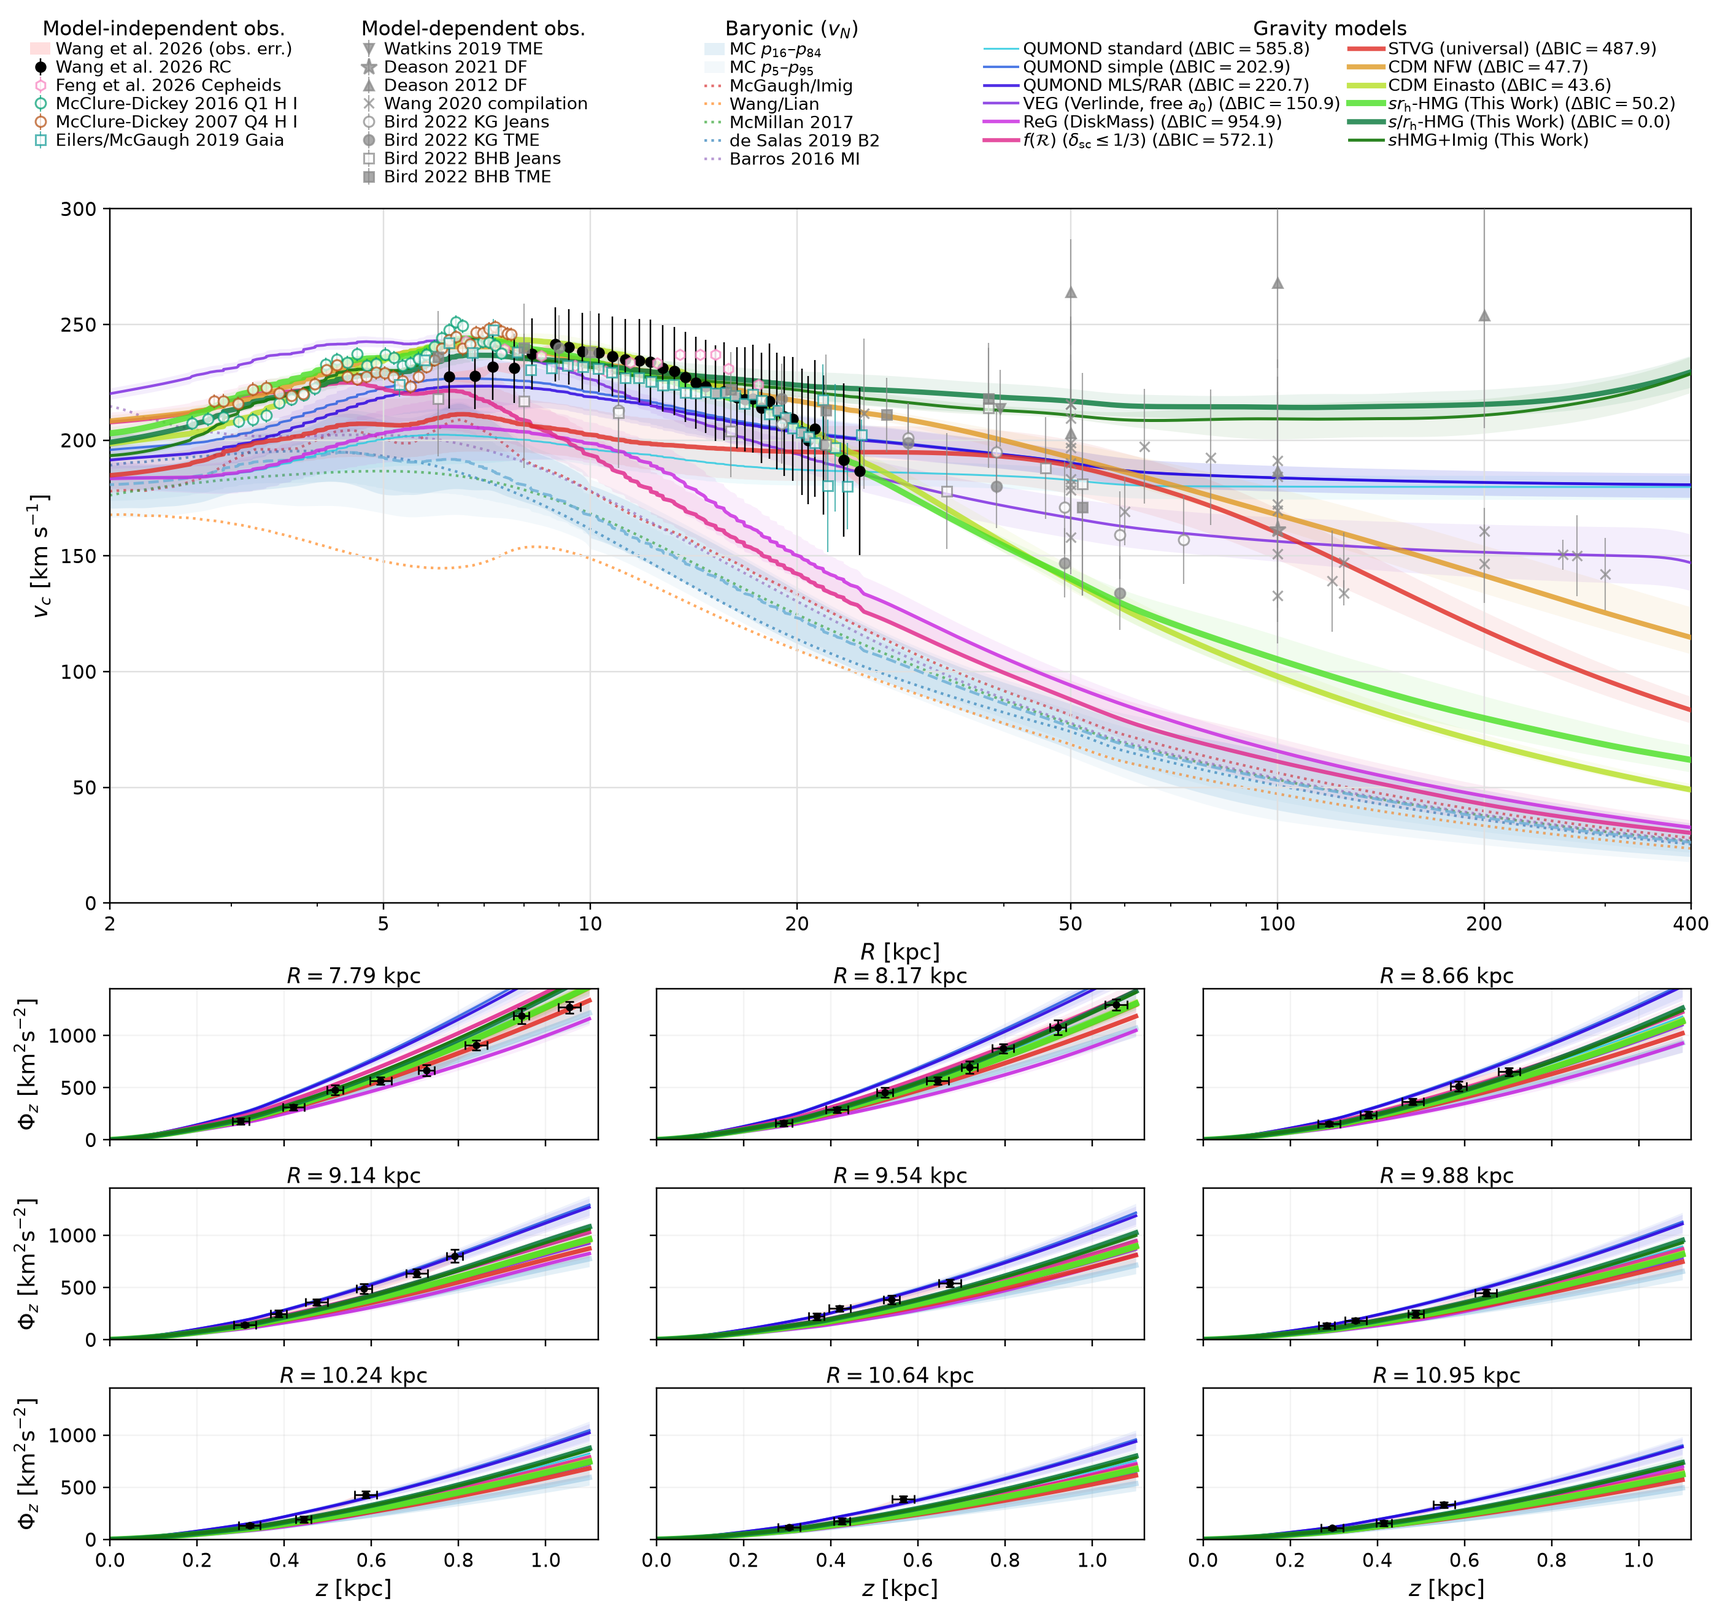
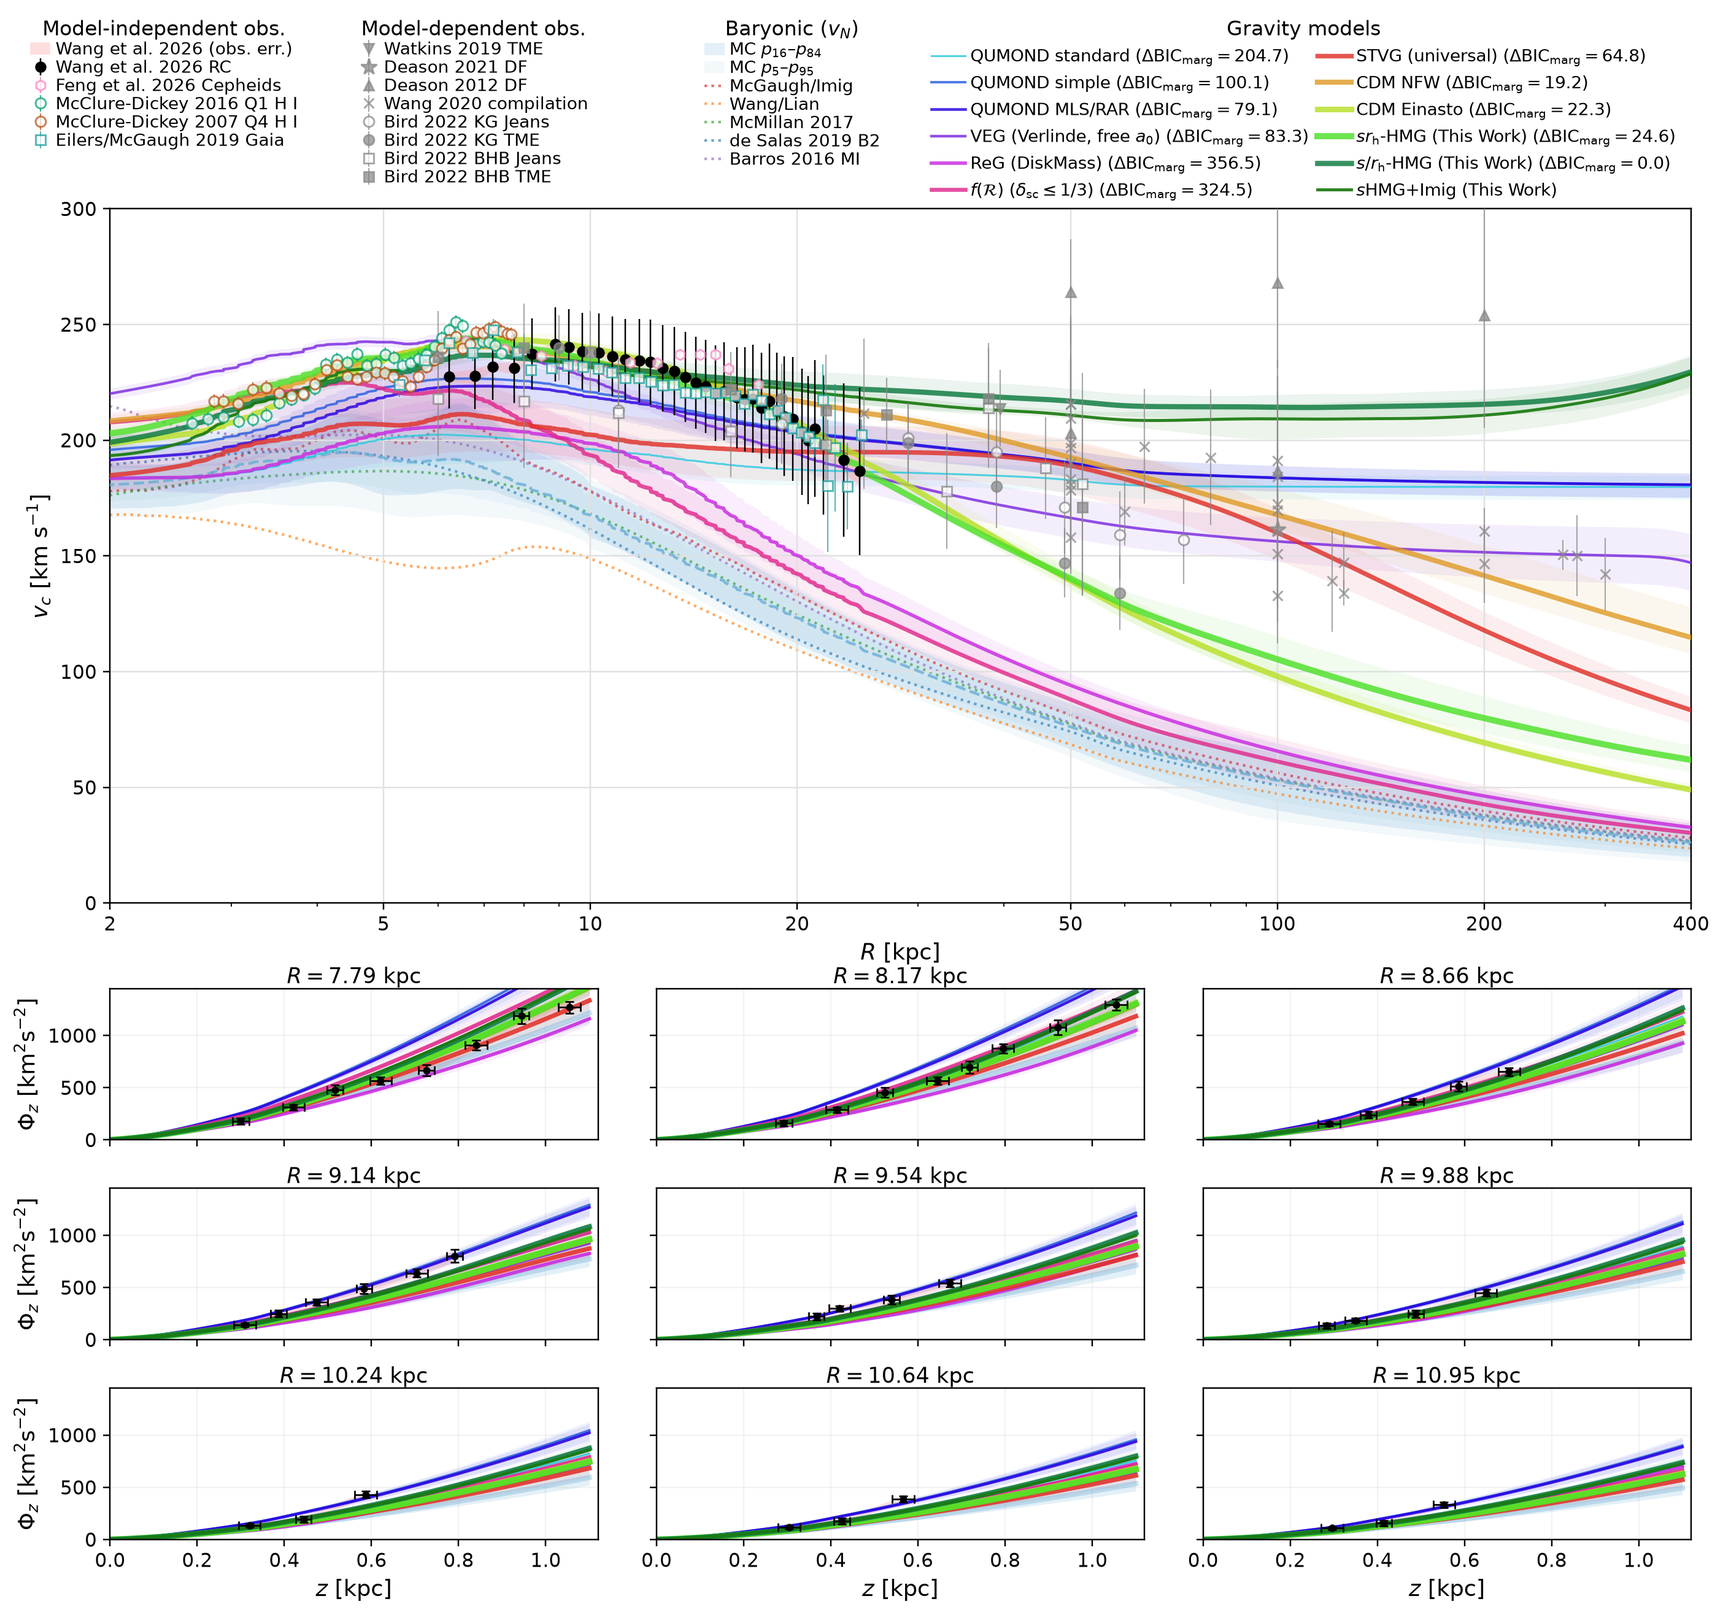
Merge the baryon-marginalised Delta BIC into the MC100 table and use it in the Fig. 2 legend

Changed region(s): [[0.5577, 0.0, 0.9605, 0.1246]]

diff --git a/tables/likelihood_bic_tables.tex b/tables/likelihood_bic_tables.tex
@@ -1,5 +1,6 @@
 % Table A, variant all: chi2_nu & Delta BIC per reconstruction (MI, LW, B2, MM)
 Baryonic Newtonian & 2 & 3.78 & 750 & 18.77 & 3601 & 5.01 & 936 & 7.31 & 1456 \\
+\hline
 QUMOND Simple & 2 & 1.54 & 189 & 5.27 & 1019 & 0.79 & 36.2 & 2.44 & 380 \\
 QUMOND Standard & 2 & 1.13 & 181 & 7.45 & 1501 & 1.10 & 112 & 2.06 & 468 \\
 QUMOND MLS & 2 & 1.55 & 195 & 5.33 & 1051 & 0.76 & 29.8 & 2.44 & 397 \\
@@ -12,38 +13,23 @@ STVG (universal) & 2 & 0.68 & 69.9 & 8.97 & 1702 & 1.12 & 116 & 1.32 & 295 \\
 CDM-NFW & 4 & 0.61 & 15.5 & 1.12 & 39.4 & 1.18 & 126 & 0.63 & 3.3 \\
 CDM-Einasto & 5 & 0.62 & 20.9 & 0.94 & \textbf{0} & 0.87 & 68.3 & 0.62 & 3.3 \\
 $s\text{-}$HMG (This Work) & 3 & 0.58 & 8.7 & 1.48 & 101 & 1.00 & 81.1 & 0.71 & 23.3 \\
-$s/r_\text{h}\text{-}$HMG (This Work) & 4 & 0.53 & \textbf{0} & 1.41 & 143 & 0.73 & 34.5 & 0.73 & 44.7 \\
 $sr_\text{h}\text{-}$HMG (This Work) & 4 & 0.61 & 17.1 & 0.98 & 11.2 & 1.43 & 176 & 0.66 & \textbf{0} \\
+$s/r_\text{h}\text{-}$HMG (This Work) & 4 & 0.53 & \textbf{0} & 1.41 & 143 & 0.73 & 34.5 & 0.73 & 44.7 \\
 % s-HMG best-fit s per reconstruction: mcgaugh_imig: 0.45, lian_wang: 0.84, de_salas: 0.50, mcmillan: 0.57
 
-% Table B, variant all: median Delta BIC (+p84 -p16) and wins per ensemble
-Baryonic Newtonian & 0 & $1181^{+223}_{-179}$ & $1684^{+883}_{-646}$ & $1870^{+871}_{-649}$ & $1865^{+788}_{-600}$ \\
-QUMOND Simple & 0 & $257^{+69.0}_{-59.3}$ & $228^{+112}_{-69.5}$ & $162^{+94.6}_{-67.4}$ & $203^{+91.7}_{-62.3}$ \\
-QUMOND Standard & 0 & $343^{+96.8}_{-57.2}$ & $533^{+483}_{-286}$ & $566^{+454}_{-273}$ & $586^{+414}_{-249}$ \\
-QUMOND MLS & 0 & $234^{+47.3}_{-49.7}$ & $242^{+124}_{-94.9}$ & $180^{+128}_{-91.5}$ & $221^{+108}_{-85.5}$ \\
-VEG ($a_0=cH_0$) & 0 & $738^{+147}_{-155}$ & $466^{+460}_{-289}$ & $439^{+378}_{-218}$ & $398^{+336}_{-202}$ \\
-VEG free $a_0$ & 1 & $111^{+17.1}_{-8.8}$ & $139^{+40.0}_{-46.5}$ & $182^{+47.8}_{-46.1}$ & $151^{+39.4}_{-39.6}$ \\
-$f(\mathcal{R})$ ($\delta_{\rm sc}\le1/3$) & 2 & $351^{+30.2}_{-22.2}$ & $493^{+424}_{-178}$ & $573^{+450}_{-207}$ & $572^{+398}_{-189}$ \\
-ReG (DiskMass) & 0 & $527^{+177}_{-134}$ & $857^{+649}_{-405}$ & $945^{+622}_{-394}$ & $955^{+568}_{-391}$ \\
-STVG (universal) & 0 & $141^{+109}_{-69.0}$ & $388^{+570}_{-296}$ & $488^{+589}_{-329}$ & $488^{+528}_{-317}$ \\
-CDM-NFW & 2 & $26.5^{+14.9}_{-7.9}$ & $44.5^{+24.3}_{-23.6}$ & $67.5^{+35.0}_{-28.9}$ & $47.7^{+32.5}_{-23.6}$ \\
-CDM-Einasto & 3 & $32.1^{+14.1}_{-7.8}$ & $46.2^{+21.2}_{-23.6}$\ (4) & $59.7^{+24.7}_{-25.7}$\ (1) & $43.6^{+24.0}_{-21.4}$\ (3) \\
-$s\text{-}$HMG (This Work) & 1 & $7.8^{+8.4}_{-4.7}$ & $11.0^{+14.5}_{-11.0}$\ (18) & $14.4^{+21.2}_{-14.4}$\ (26) & $10.0^{+13.0}_{-10.0}$\ (22) \\
-$s/r_\text{h}\text{-}$HMG (This Work) & 2 & \textbf{0}\ (100) & $0.0^{+7.2}_{-0.0}$\ (75) & $0.0^{+16.5}_{-0.0}$\ (73) & $0.0^{+10.8}_{-0.0}$\ (73) \\
-$sr_\text{h}\text{-}$HMG (This Work) & 2 & $29.9^{+14.4}_{-7.4}$ & $45.0^{+25.9}_{-25.6}$\ (3) & $72.0^{+30.0}_{-29.8}$ & $50.2^{+24.6}_{-24.0}$\ (2) \\
-
-% Table C, variant all: Delta BIC marginalised over the baryonic draws, per ensemble
-Baryonic Newtonian & 0 & 907 & 837 & 943 & 985 \\
-QUMOND Simple & 0 & 166 & 92.3 & 71.3 & 100 \\
-QUMOND Standard & 0 & 246 & 180 & 178 & 205 \\
-QUMOND MLS & 0 & 165 & 97.6 & 52.3 & 79.1 \\
-VEG ($a_0=cH_0$) & 0 & 533 & 65.8 & 95.8 & 79.2 \\
-VEG free $a_0$ & 1 & 96.6 & 68.5 & 101 & 83.3 \\
-$f(\mathcal{R})$ ($\delta_{\rm sc}\le1/3$) & 2 & 324 & 280 & 307 & 325 \\
-ReG (DiskMass) & 0 & 321 & 300 & 344 & 357 \\
-STVG (universal) & 0 & 49.2 & 32.4 & 53.3 & 64.8 \\
-CDM-NFW & 2 & 18.3 & 21.0 & 27.8 & 19.2 \\
-CDM-Einasto & 3 & 23.9 & 25.8 & 30.5 & 22.3 \\
-$s\text{-}$HMG (This Work) & 1 & 3.6 & 5.7 & 11.4 & 6.7 \\
-$s/r_\text{h}\text{-}$HMG (This Work) & 2 & \textbf{0} & \textbf{0} & \textbf{0} & \textbf{0} \\
-$sr_\text{h}\text{-}$HMG (This Work) & 2 & 20.7 & 18.7 & 36.8 & 24.6 \\
+% Table B, variant all: median Delta BIC (+p84 -p16) and wins per ensemble, then Delta BIC marginalised over the draws, per ensemble
+Baryonic Newtonian & 0 & $1181^{+223}_{-179}$ & $1684^{+883}_{-646}$ & $1870^{+871}_{-649}$ & $1865^{+788}_{-600}$ & 907 & 837 & 943 & 985 \\
+\hline
+QUMOND Simple & 0 & $257^{+69.0}_{-59.3}$ & $228^{+112}_{-69.5}$ & $162^{+94.6}_{-67.4}$ & $203^{+91.7}_{-62.3}$ & 166 & 92.3 & 71.3 & 100 \\
+QUMOND Standard & 0 & $343^{+96.8}_{-57.2}$ & $533^{+483}_{-286}$ & $566^{+454}_{-273}$ & $586^{+414}_{-249}$ & 246 & 180 & 178 & 205 \\
+QUMOND MLS & 0 & $234^{+47.3}_{-49.7}$ & $242^{+124}_{-94.9}$ & $180^{+128}_{-91.5}$ & $221^{+108}_{-85.5}$ & 165 & 97.6 & 52.3 & 79.1 \\
+VEG ($a_0=cH_0$) & 0 & $738^{+147}_{-155}$ & $466^{+460}_{-289}$ & $439^{+378}_{-218}$ & $398^{+336}_{-202}$ & 533 & 65.8 & 95.8 & 79.2 \\
+VEG free $a_0$ & 1 & $111^{+17.1}_{-8.8}$ & $139^{+40.0}_{-46.5}$ & $182^{+47.8}_{-46.1}$ & $151^{+39.4}_{-39.6}$ & 96.6 & 68.5 & 101 & 83.3 \\
+$f(\mathcal{R})$ ($\delta_{\rm sc}\le1/3$) & 2 & $351^{+30.2}_{-22.2}$ & $493^{+424}_{-178}$ & $573^{+450}_{-207}$ & $572^{+398}_{-189}$ & 324 & 280 & 307 & 325 \\
+ReG (DiskMass) & 0 & $527^{+177}_{-134}$ & $857^{+649}_{-405}$ & $945^{+622}_{-394}$ & $955^{+568}_{-391}$ & 321 & 300 & 344 & 357 \\
+STVG (universal) & 0 & $141^{+109}_{-69.0}$ & $388^{+570}_{-296}$ & $488^{+589}_{-329}$ & $488^{+528}_{-317}$ & 49.2 & 32.4 & 53.3 & 64.8 \\
+CDM-NFW & 2 & $26.5^{+14.9}_{-7.9}$ & $44.5^{+24.3}_{-23.6}$ & $67.5^{+35.0}_{-28.9}$ & $47.7^{+32.5}_{-23.6}$ & 18.3 & 21.0 & 27.8 & 19.2 \\
+CDM-Einasto & 3 & $32.1^{+14.1}_{-7.8}$ & $46.2^{+21.2}_{-23.6}$\ (4) & $59.7^{+24.7}_{-25.7}$\ (1) & $43.6^{+24.0}_{-21.4}$\ (3) & 23.9 & 25.8 & 30.5 & 22.3 \\
+$s\text{-}$HMG (This Work) & 1 & $7.8^{+8.4}_{-4.7}$ & $11.0^{+14.5}_{-11.0}$\ (18) & $14.4^{+21.2}_{-14.4}$\ (26) & $10.0^{+13.0}_{-10.0}$\ (22) & 3.6 & 5.7 & 11.4 & 6.7 \\
+$sr_\text{h}\text{-}$HMG (This Work) & 2 & $29.9^{+14.4}_{-7.4}$ & $45.0^{+25.9}_{-25.6}$\ (3) & $72.0^{+30.0}_{-29.8}$ & $50.2^{+24.6}_{-24.0}$\ (2) & 20.7 & 18.7 & 36.8 & 24.6 \\
+$s/r_\text{h}\text{-}$HMG (This Work) & 2 & \textbf{0}\ (100) & $0.0^{+7.2}_{-0.0}$\ (75) & $0.0^{+16.5}_{-0.0}$\ (73) & $0.0^{+10.8}_{-0.0}$\ (73) & \textbf{0} & \textbf{0} & \textbf{0} & \textbf{0} \\

diff --git a/scripts/likelihood_bic_tables.py b/scripts/likelihood_bic_tables.py
@@ -4,9 +4,9 @@ Table A: one fit per baryonic reconstruction (outputs/likelihood_bic/likelihood_
          chi2_nu and Delta BIC with respect to the best model of each reconstruction.
 Table B: MC100 ensembles (outputs/likelihood_bic_mc100/<variant>/bc_nbar<n>/bic_per_draw.csv);
          median Delta BIC with respect to the best model of each draw (p16, p84) and
-         the number of draws in which the model has the lowest BIC.
-Table C: MC100 ensembles; Delta BIC marginalised over the baryonic draws,
-         -2 ln[(1/N) sum_i exp(-BIC_i/2)] relative to the best model.
+         the number of draws in which the model has the lowest BIC; then, per
+         ensemble, Delta BIC with the BIC marginalised over the baryonic draws,
+         -2 ln[(1/N) sum_i exp(-BIC_i/2)], relative to the best model.
 
 Usage
 -----
@@ -31,8 +31,8 @@ ROWS_A = [
     ("fr_bounded", r"$f(\mathcal{R})$ ($\delta_{\rm sc}\le1/3$)"),
     ("reg_dms", "ReG (DiskMass)"), ("reg_free", "ReG free"), ("stvg_std", "STVG (universal)"),
     ("cdm_nfw", "CDM-NFW"), ("cdm_einasto", "CDM-Einasto"),
-    ("hmg_sp", r"$s\text{-}$HMG (This Work)"), ("hmg_sk2", r"$s/r_\text{h}\text{-}$HMG (This Work)"),
-    ("e2d_k2", r"$sr_\text{h}\text{-}$HMG (This Work)"),
+    ("hmg_sp", r"$s\text{-}$HMG (This Work)"), ("e2d_k2", r"$sr_\text{h}\text{-}$HMG (This Work)"),
+    ("hmg_sk2", r"$s/r_\text{h}\text{-}$HMG (This Work)"),
 ]
 ROWS_B = [
     ("baryonic", "Baryonic Newtonian", 0), ("mond_simple", "QUMOND Simple", 0),
@@ -41,8 +41,8 @@ ROWS_B = [
     ("fr_bounded", r"$f(\mathcal{R})$ ($\delta_{\rm sc}\le1/3$)", 2),
     ("reg_dms", "ReG (DiskMass)", 0), ("stvg_std", "STVG (universal)", 0),
     ("cdm_nfw", "CDM-NFW", 2), ("cdm_einasto", "CDM-Einasto", 3),
-    ("hmg_k1", r"$s\text{-}$HMG (This Work)", 1), ("hmg_sk2", r"$s/r_\text{h}\text{-}$HMG (This Work)", 2),
-    ("e2d_k2", r"$sr_\text{h}\text{-}$HMG (This Work)", 2),
+    ("hmg_k1", r"$s\text{-}$HMG (This Work)", 1), ("e2d_k2", r"$sr_\text{h}\text{-}$HMG (This Work)", 2),
+    ("hmg_sk2", r"$s/r_\text{h}\text{-}$HMG (This Work)", 2),
 ]
 
 
@@ -65,13 +65,16 @@ def table_a(variant: str) -> None:
             dbic = r"\textbf{0}" if d == 0 else fmt(d)
             cells.append(f"{float(hit['chi2_nu']):.2f} & {dbic}")
         print(f"{label} & {k} & " + " & ".join(cells) + r" \\")
+        if key == "baryonic":
+            print(r"\hline")
     hmg = {c: next(r for r in rows if r["config"] == c and r["model"] == "hmg_sp") for c in CONFIGS}
     print("% s-HMG best-fit s per reconstruction: "
           + ", ".join(f"{c}: {math.exp(json.loads(hmg[c]['theta'])[0]):.2f}" for c in CONFIGS))
 
 
 def table_b(variant: str) -> None:
-    print(f"% Table B, variant {variant}: median Delta BIC (+p84 -p16) and wins per ensemble")
+    print(f"% Table B, variant {variant}: median Delta BIC (+p84 -p16) and wins per ensemble, "
+          "then Delta BIC marginalised over the draws, per ensemble")
     data = []
     for n in (1, 2, 3, 4):
         path = ROOT / f"outputs/likelihood_bic_mc100/{variant}/bc_nbar{n}/bic_per_draw.csv"
@@ -79,35 +82,21 @@ def table_b(variant: str) -> None:
         keys = [k for k, _, _ in ROWS_B if k in rows[0]]
         bic = {k: np.array([float(r[k]) for r in rows]) for k in keys}
         stack = np.vstack([bic[k] for k in keys])
-        data.append((keys, bic, stack.min(axis=0), np.argmin(stack, axis=0)))
+        marg = {k: float(b.min() - 2.0 * math.log(np.mean(np.exp(-0.5 * (b - b.min()))))) for k, b in bic.items()}
+        best = min(marg.values())
+        data.append((keys, bic, stack.min(axis=0), np.argmin(stack, axis=0), {k: v - best for k, v in marg.items()}))
     for key, label, k in ROWS_B:
-        cells = []
-        for keys, bic, low, arg in data:
+        cells, cells_m = [], []
+        for keys, bic, low, arg, marg in data:
             d = bic[key] - low
             p16, p50, p84 = np.percentile(d, [16, 50, 84])
             wins = int(np.sum(arg == keys.index(key)))
             cell = r"\textbf{0}" if p84 == 0 else f"${fmt(p50)}^{{+{fmt(p84 - p50)}}}_{{-{fmt(p50 - p16)}}}$"
             cells.append(cell + (rf"\ ({wins})" if wins else ""))
-        print(f"{label} & {k} & " + " & ".join(cells) + r" \\")
-
-
-def table_c(variant: str) -> None:
-    """Delta BIC marginalised over the 100 draws of each ensemble (likelihood_bic_marginal.py)."""
-    print(f"% Table C, variant {variant}: Delta BIC marginalised over the baryonic draws, per ensemble")
-    marg = []
-    for n in (1, 2, 3, 4):
-        path = ROOT / f"outputs/likelihood_bic_mc100/{variant}/bc_nbar{n}/bic_per_draw.csv"
-        rows = list(csv.DictReader(open(path, encoding="utf-8")))
-        keys = [k for k, _, _ in ROWS_B if k in rows[0]]
-        m = {}
-        for key in keys:
-            b = np.array([float(r[key]) for r in rows])
-            m[key] = float(b.min() - 2.0 * math.log(np.mean(np.exp(-0.5 * (b - b.min())))))
-        best = min(m.values())
-        marg.append({k: v - best for k, v in m.items()})
-    for key, label, k in ROWS_B:
-        cells = [r"\textbf{0}" if d[key] == 0 else fmt(d[key]) for d in marg]
-        print(f"{label} & {k} & " + " & ".join(cells) + r" \\")
+            cells_m.append(r"\textbf{0}" if marg[key] == 0 else fmt(marg[key]))
+        print(f"{label} & {k} & " + " & ".join(cells + cells_m) + r" \\")
+        if key == "baryonic":
+            print(r"\hline")
 
 
 def main() -> None:
@@ -117,8 +106,6 @@ def main() -> None:
     table_a(args.variant)
     print()
     table_b(args.variant)
-    print()
-    table_c(args.variant)
 
 
 if __name__ == "__main__":

diff --git a/scripts/step3_bc_fig2_physical.py b/scripts/step3_bc_fig2_physical.py
@@ -12,10 +12,11 @@ s-HMG+Imig overlay from .../bc_nbar1/, so that the models are those of Table 5:
   ReG                             solved on nested grids, DiskMass parameters (Cesare et al. 2020)
   CDM NFW and Einasto, sr_h-HMG, s/r_h-HMG
 
-The legend gives, for each model, the median over draws of Delta BIC with
-respect to the best model of the same draw (Table 5). The s-HMG+Imig overlay
-comes from the MI ensemble and carries no value, since its Delta BIC refers to
-another set of draws.
+The legend gives, for each model, Delta BIC with the BIC marginalised over the
+100 draws of the ensemble, -2 ln[(1/N) sum_i exp(-BIC_i/2)], so that the
+baryonic uncertainty is included (Table 5, marginalised columns). The
+s-HMG+Imig overlay comes from the MI ensemble and carries no value, since its
+Delta BIC refers to another set of draws.
 
 Requires the model CSVs written by run_likelihood_bic.sh (not bundled; only
 bic_per_draw.csv is).
@@ -79,15 +80,18 @@ def stage(src: Path, nbar_dir: Path, dest: Path) -> None:
         shutil.copy2(nbar_dir / name, dest / name)
 
 
-def median_delta_bic(directory: Path) -> dict[str, float]:
+def marginal_delta_bic(directory: Path) -> dict[str, float]:
+    """Delta BIC with each BIC marginalised over the draws: -2 ln[(1/N) sum_i exp(-BIC_i/2)]."""
     with open(directory / "bic_per_draw.csv", newline="", encoding="utf-8") as fh:
         rows = list(csv.DictReader(fh))
     keys = [k for k in rows[0] if k != "draw"]
-    bic = np.array([[float(r[k]) for k in keys] for r in rows])
-    delta = bic - bic.min(axis=1, keepdims=True)
-    med = dict(zip(keys, np.median(delta, axis=0)))
+    marg = {}
+    for k in keys:
+        b = np.array([float(r[k]) for r in rows])
+        marg[k] = float(b.min() - 2.0 * np.log(np.mean(np.exp(-0.5 * (b - b.min())))))
+    best = min(marg.values())
     inverse = {v: k for k, v in KEY_MAP.items()}
-    return {inverse[k]: float(v) for k, v in med.items() if k in inverse}
+    return {inverse[k]: v - best for k, v in marg.items() if k in inverse}
 
 
 def main() -> None:
@@ -108,9 +112,9 @@ def main() -> None:
     _ensure_baryon_band(dest1)
 
     # the s-HMG+Imig overlay belongs to another ensemble: no value in the legend
-    values = median_delta_bic(run / "bc_nbar4")
+    values = marginal_delta_bic(run / "bc_nbar4")
     for k, v in sorted(values.items(), key=lambda kv: kv[1]):
-        print(f"  {k:<20} median Delta BIC = {v:8.1f}")
+        print(f"  {k:<20} marginalised Delta BIC = {v:8.1f}")
 
     obs = ROOT / "data" / "fig2_observational_data.csv"
     if not obs.exists():
@@ -124,7 +128,8 @@ def main() -> None:
     fig = plot_fig2(dest4, obs_path=obs, output_path=out, dpi=args.dpi,
                     hmg_1fam_outputs_dir=dest1, model_keys=FIGURE_KEYS,
                     label_overrides=LABELS, legend_values=values,
-                    legend_symbol=r"\Delta{\rm BIC}", legend_fmt=".1f")
+                    legend_symbol=r"\Delta{\rm BIC}_{\rm marg}", legend_fmt=".1f",
+                    model_legend_spacing=0.5)
     plt.close(fig)
 
 

diff --git a/vgrav/figures.py b/vgrav/figures.py
@@ -139,6 +139,7 @@ def plot_fig2(
     legend_values: Optional[dict[str, float]] = None,
     legend_symbol: str = r"\chi^2_{\nu}",
     legend_fmt: str = ".2f",
+    model_legend_spacing: float = 0.08,
 ) -> plt.Figure:
     """Reproduce Fig. 2: rotation curve + 9 vertical potential panels.
 
@@ -155,6 +156,8 @@ def plot_fig2(
                       chi2_nu of mc100_chi2_all_models.csv; the key "hmg_1fam"
                       gives the value of the s-HMG+Imig overlay.
     legend_symbol, legend_fmt : symbol and number format of the legend values.
+    model_legend_spacing : vertical space between the entries of the gravity-model
+                    legend, in units of the font size.
 
     Returns
     -------
@@ -424,7 +427,7 @@ def plot_fig2(
         fig.legend(handles=model_handles, loc="upper right",
                    bbox_to_anchor=(0.985, 0.995), ncol=2, frameon=False,
                    title="Gravity models", fontsize=9.0, title_fontsize=10.8,
-                   handlelength=2.0, handletextpad=0.3, labelspacing=0.08,
+                   handlelength=2.0, handletextpad=0.3, labelspacing=model_legend_spacing,
                    columnspacing=0.5)
 
     fig.add_subplot(gs[1]).axis("off")

diff --git a/README.md b/README.md
@@ -184,13 +184,14 @@ cat outputs/likelihood_bic/summary.txt             # framework 1 tables
 cat outputs/likelihood_bic_mc100/summary_all.txt  # framework 2 table
 ```
 
-The launcher also writes `tables/likelihood_bic_tables.tex`, the rows of
-Tables 4, 5 and 6 of the paper. The tables list only the models with a physical
+The launcher also writes `tables/likelihood_bic_tables.tex`, the rows of the
+two full-likelihood tables of the paper (fits per reconstruction; MC100
+ensembles with the median and the baryon-marginalised Delta BIC). The tables list only the models with a physical
 implementation; the rows of the remaining keys stay in the CSV files.
 
 Fig. 2 of the paper is drawn from the framework-2 fits of the four-source
-ensemble, with the legend giving the median Delta BIC of Table 5 (requires the
-model CSVs written by `run_likelihood_bic.sh`):
+ensemble, with the legend giving the Delta BIC marginalised over the baryonic
+draws (requires the model CSVs written by `run_likelihood_bic.sh`):
 
 ```bash
 python scripts/step3_bc_fig2_physical.py           # figs/fig2_physical_models.png
